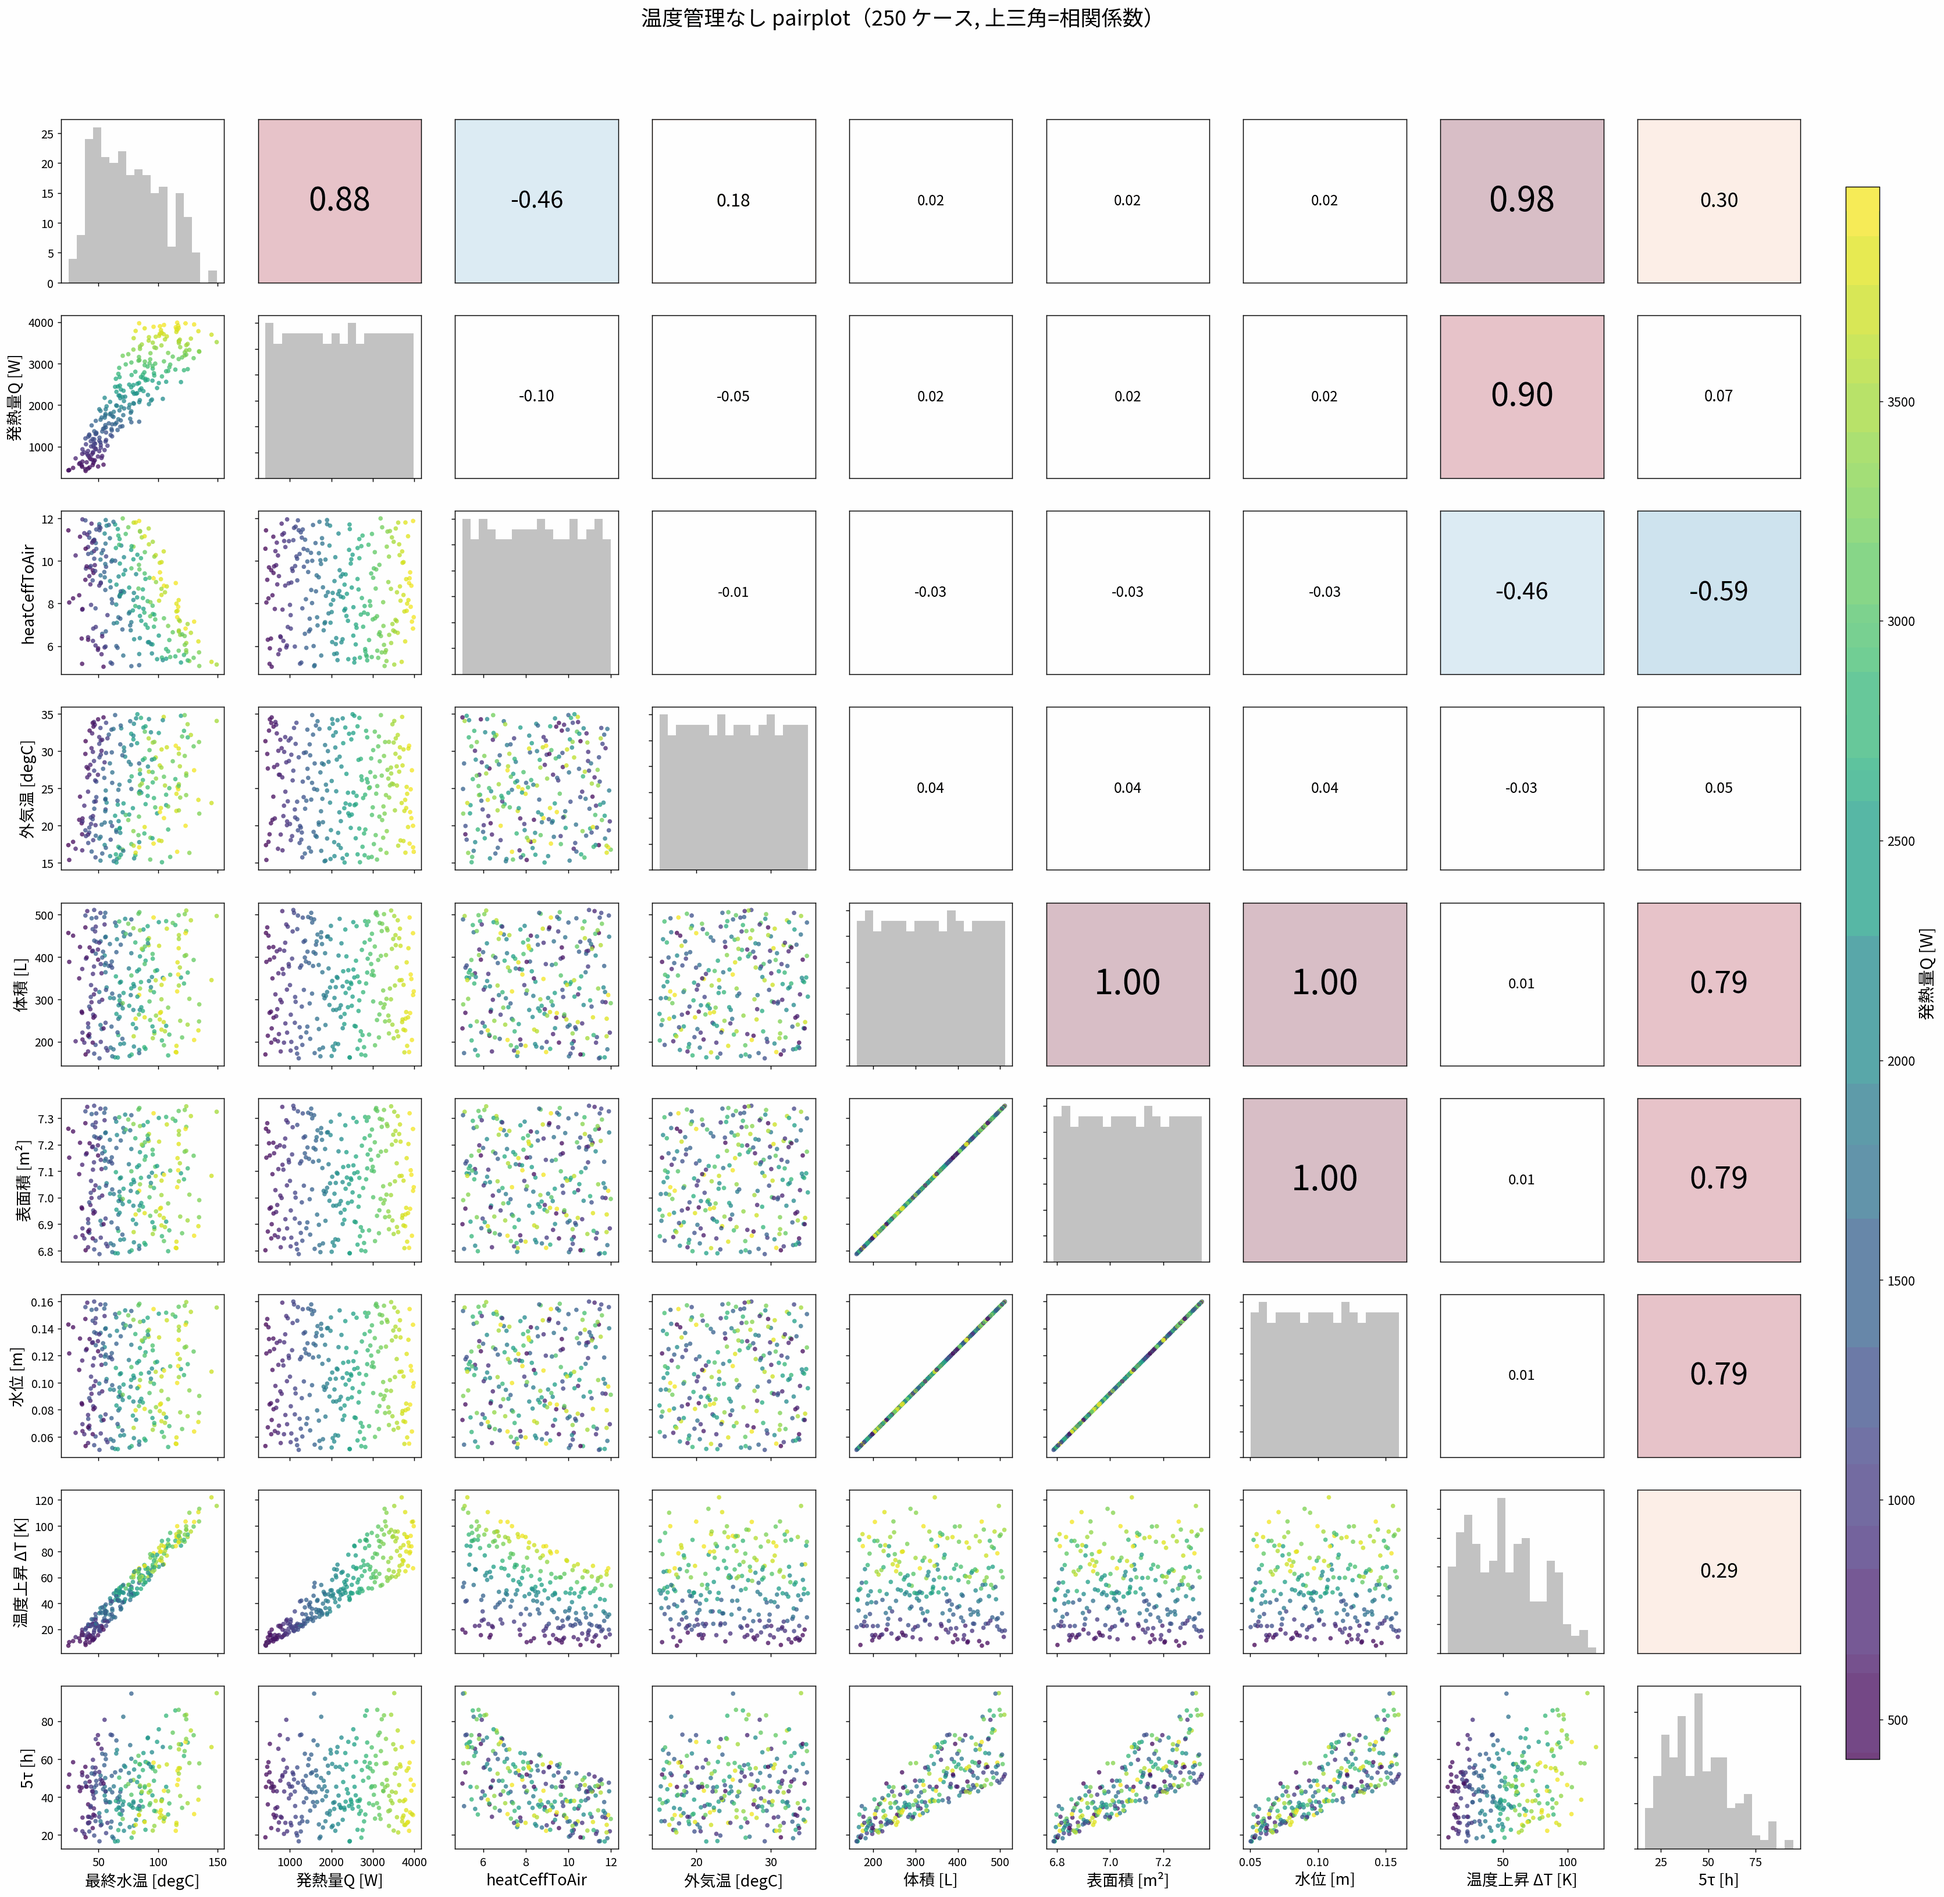
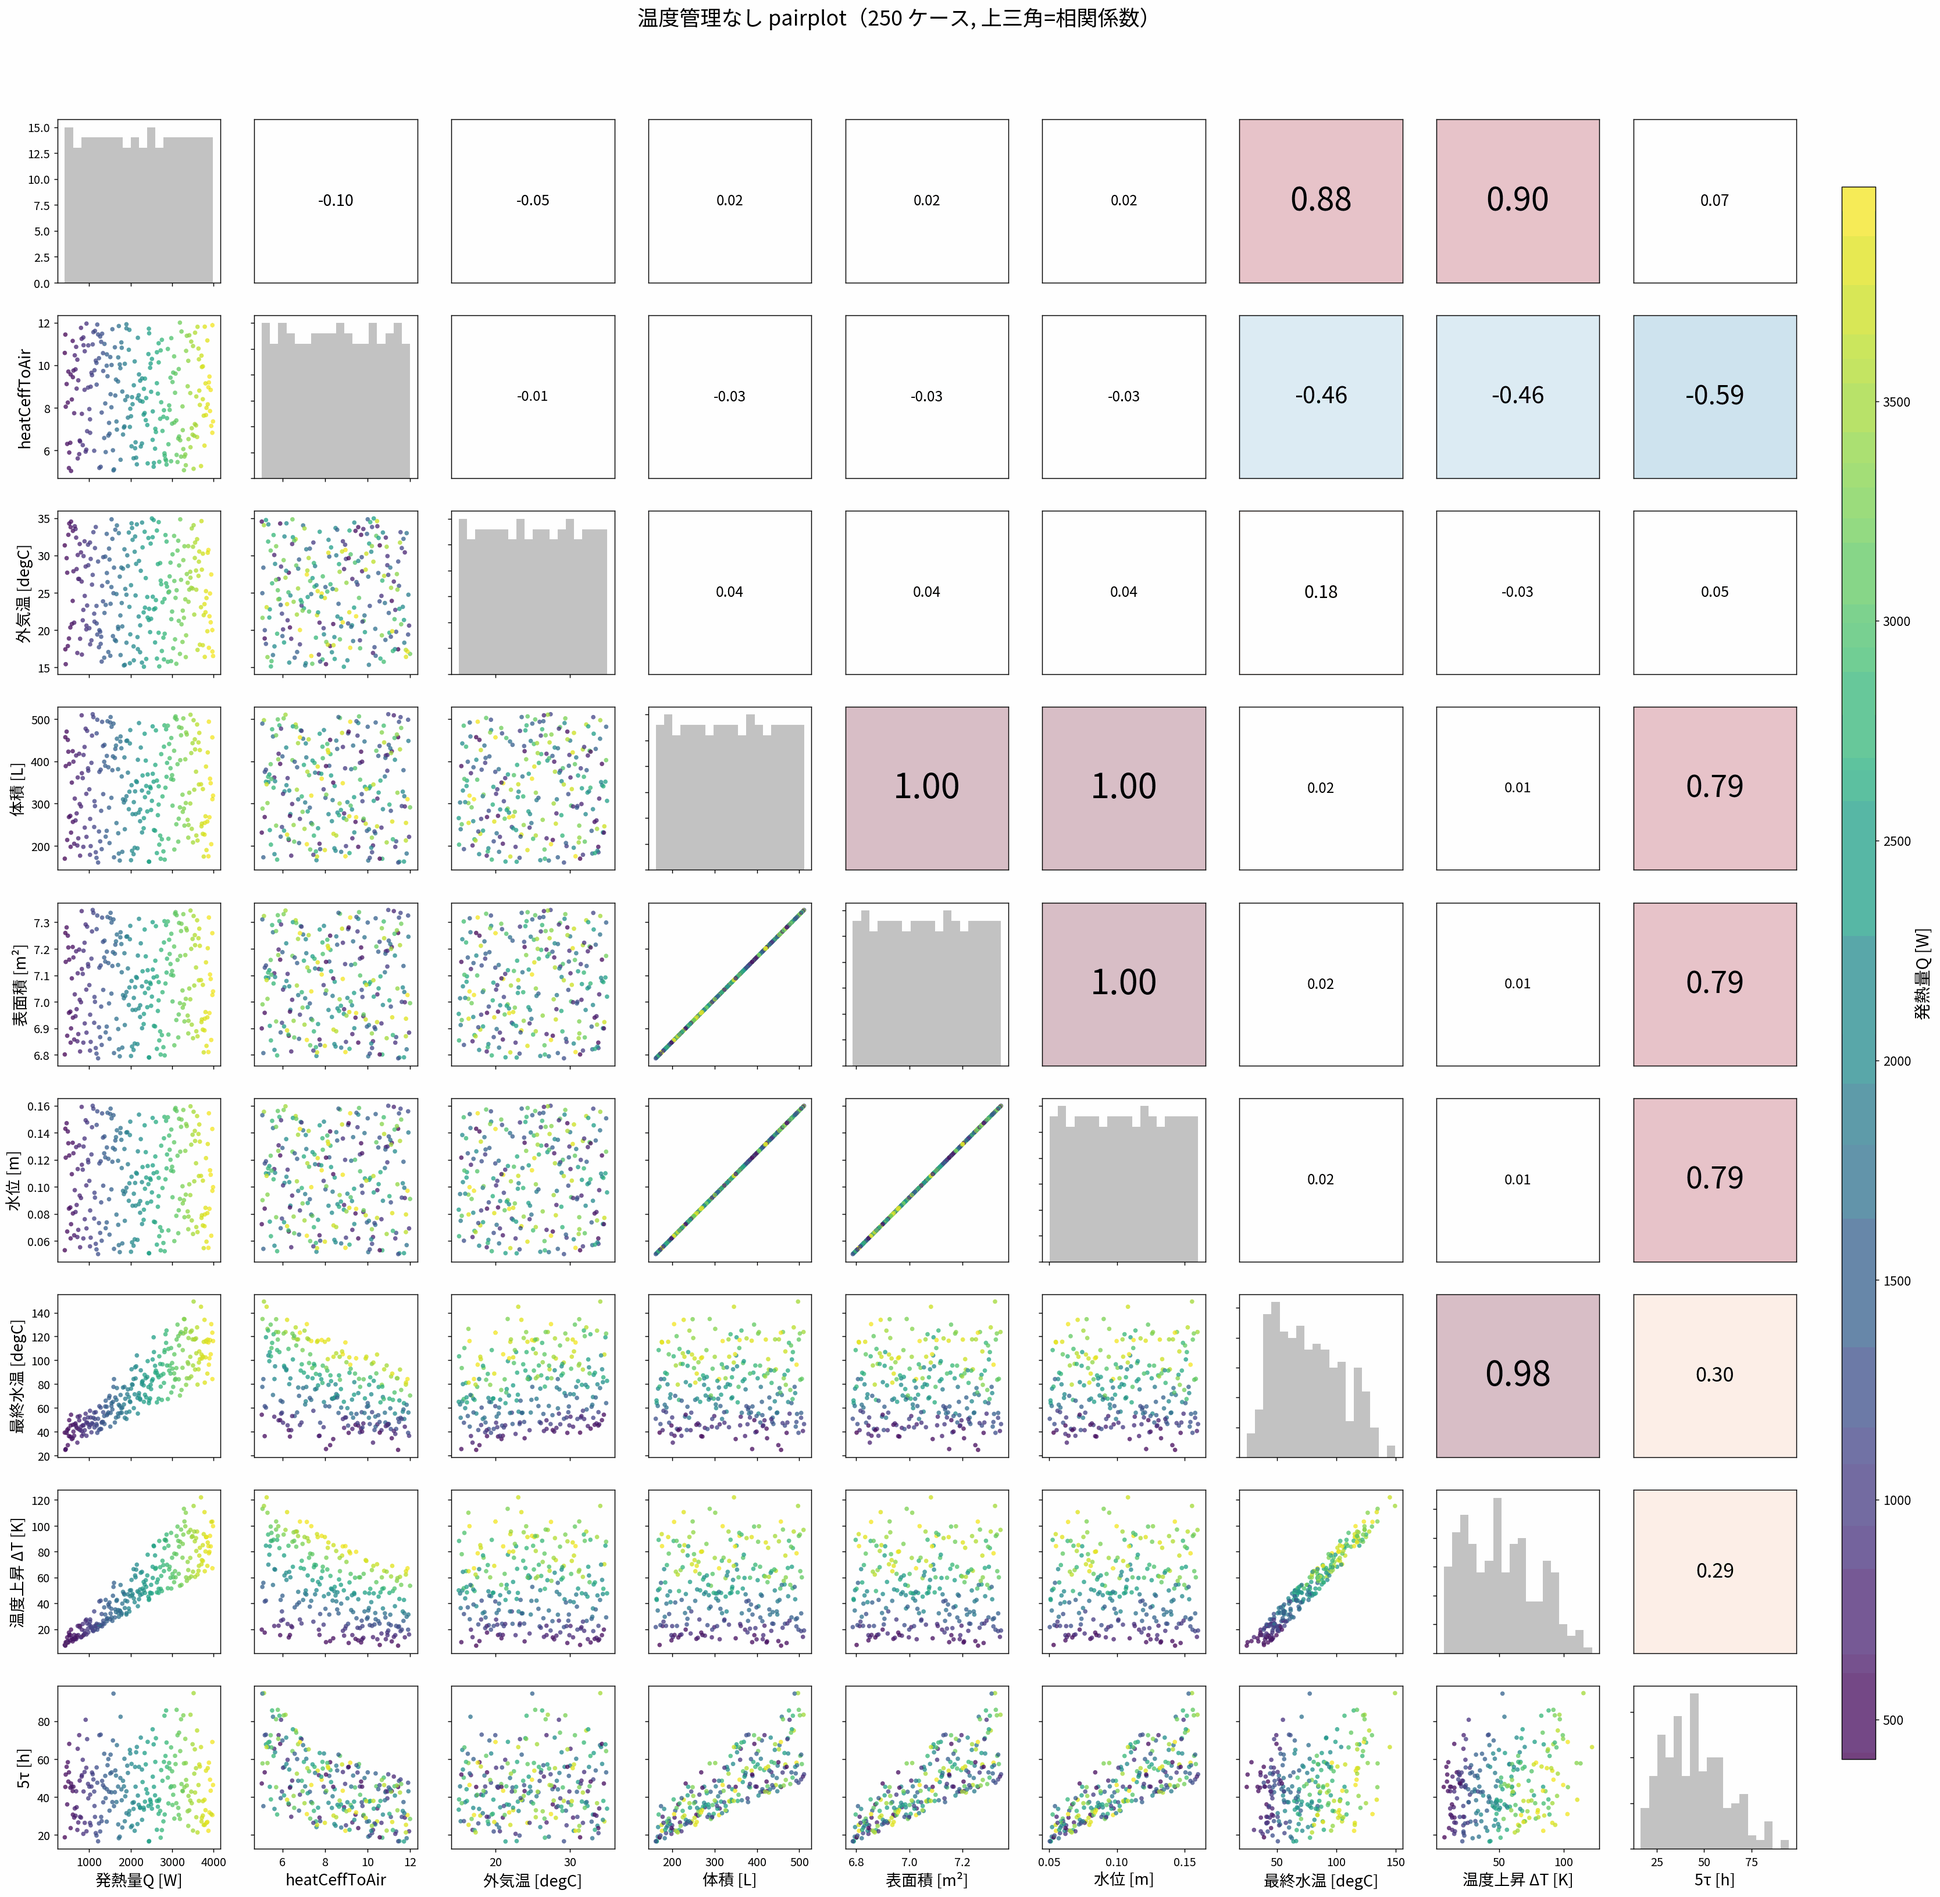
pairplot: 下から 5τ・温度上昇ΔT・最終水温 の並びに変更
Claude-Session: https://claude.ai/code/session_012Bb2Gqoegt25dmMh1N6dBX

diff --git a/003_tank_para/pairplot_control.py b/003_tank_para/pairplot_control.py
@@ -154,11 +154,11 @@ def main():
     Ar = np.array([area_total(level[k]) for k in range(n)])
     Tfin_off = Tair + dT_off     # 最終水温(絶対) = 外気温 + 温度上昇
     Tfin_on = Tair + dT_on
-    labels = ["最終水温 [degC]", "発熱量Q [W]", "heatCeffToAir", "外気温 [degC]",
-              "体積 [L]", "表面積 [m²]", "水位 [m]", "温度上昇 ΔT [K]", "5τ [h]"]
+    labels = ["発熱量Q [W]", "heatCeffToAir", "外気温 [degC]", "体積 [L]",
+              "表面積 [m²]", "水位 [m]", "最終水温 [degC]", "温度上昇 ΔT [K]", "5τ [h]"]
 
-    data_off = np.column_stack([Tfin_off, Q, h_air, Tair, V, Ar, level, dT_off, tau5])
-    data_on = np.column_stack([Tfin_on, Q, h_air, Tair, V, Ar, level, dT_on, tau5])
+    data_off = np.column_stack([Q, h_air, Tair, V, Ar, level, Tfin_off, dT_off, tau5])
+    data_on = np.column_stack([Q, h_air, Tair, V, Ar, level, Tfin_on, dT_on, tau5])
     pairplot1(data_off, labels, Q, "発熱量Q [W]", os.path.join(IMG, "pairplot_control_off.png"),
               "温度管理なし pairplot（%d ケース, 上三角=相関係数）" % n)
     pairplot1(data_on, labels, Q, "発熱量Q [W]", os.path.join(IMG, "pairplot_control_on.png"),
